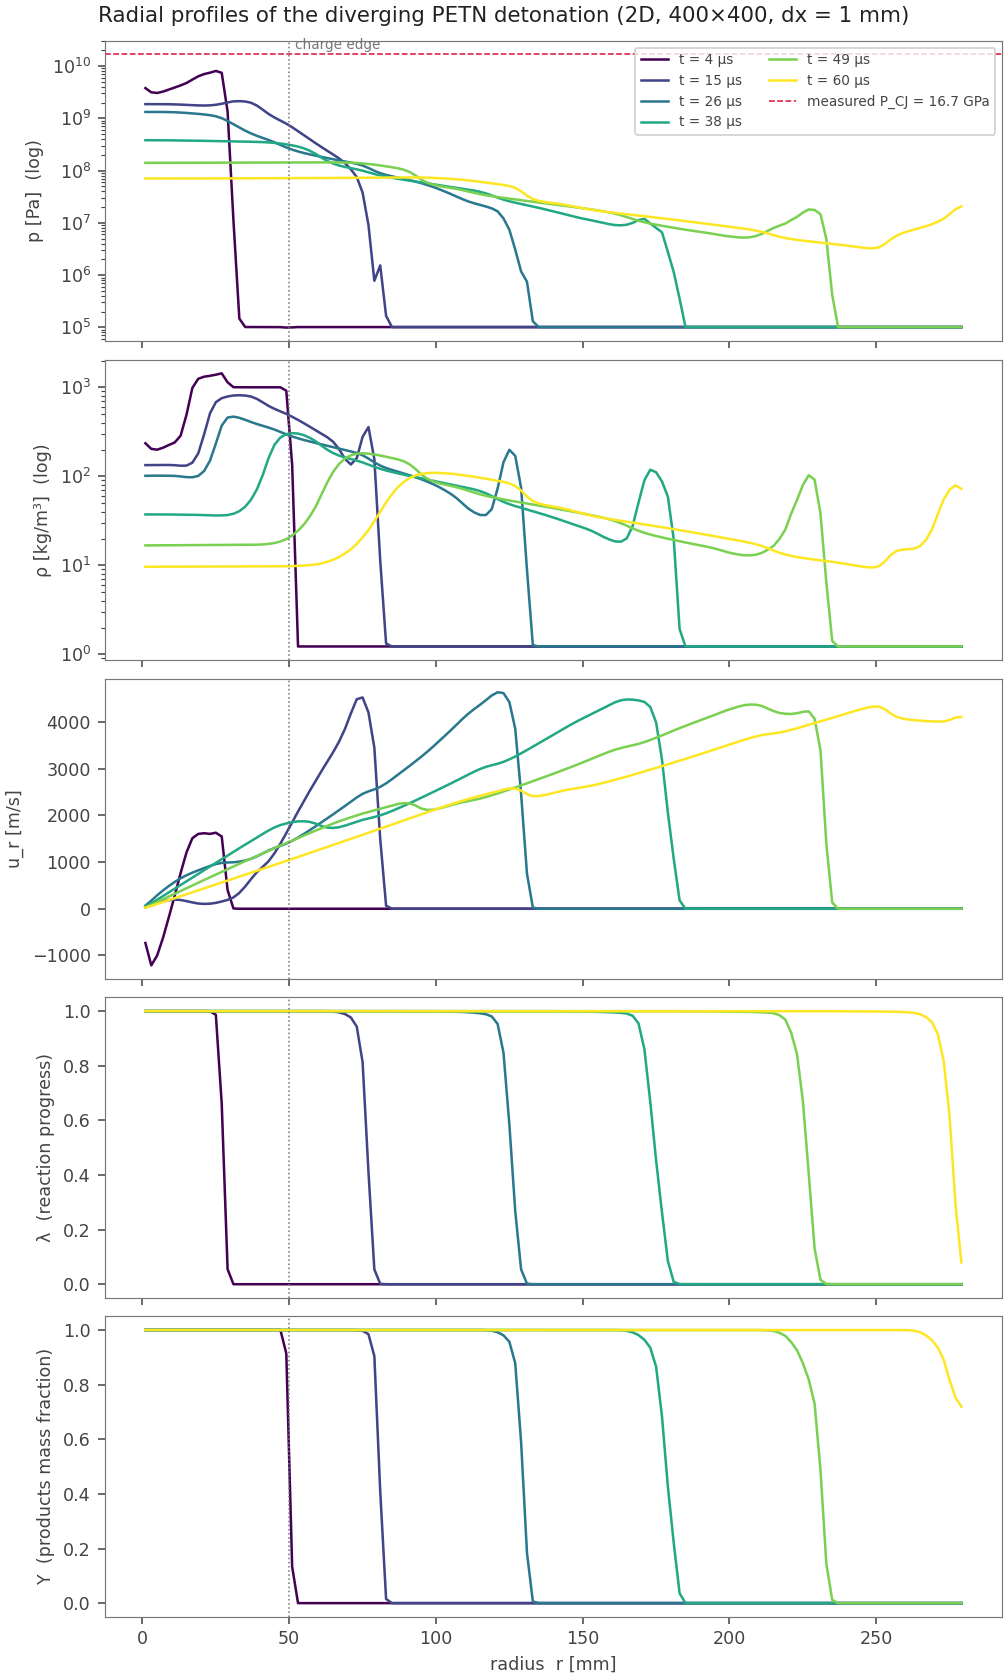
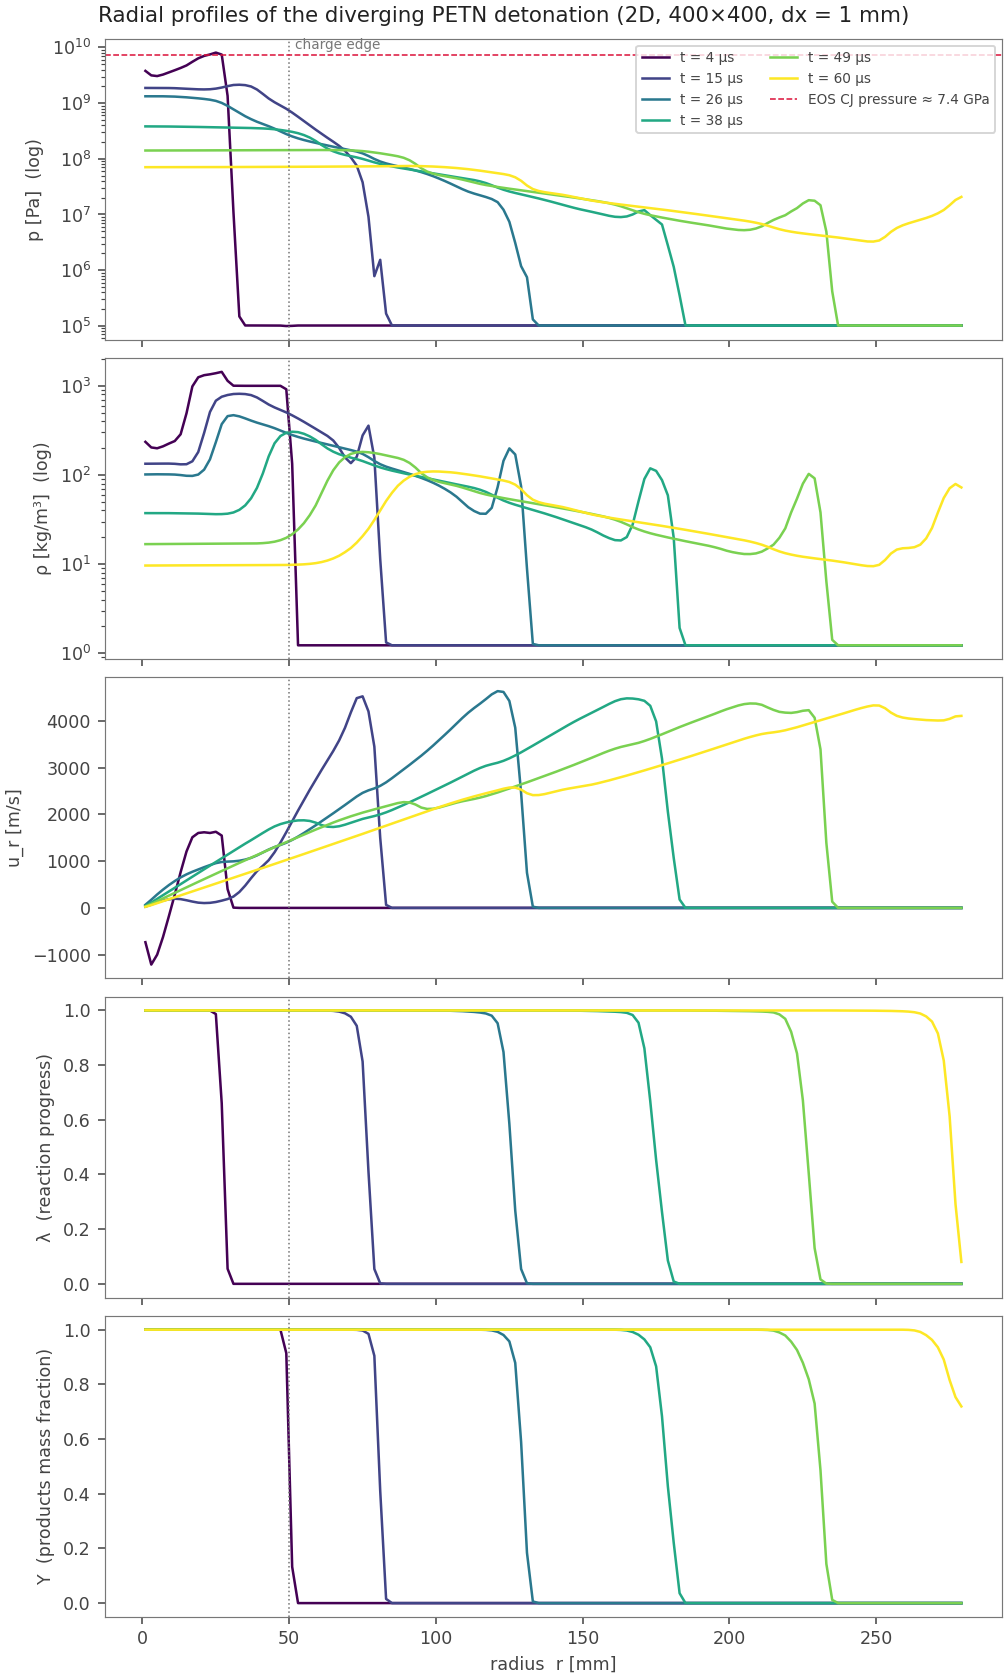
Correct the PETN CJ state: examples labeled an overdriven front as CJ
Audit against Kuhl's papers (research pass) + the detonation-physics CJ
solver found the examples mislabeled an overdriven detonation state as the
Chapman-Jouguet state:

- Kuhl reports only T_CJ ~ 4600 K for this 1 g/cc PETN; he reports NO
  P_CJ/D_CJ. His constants are a detonation-products isentrope fit for
  already-detonated products expanding/afterburning, not a detonation model.
- The true self-sustained CJ of the standard-form JWL with these constants
  (Hugoniot/Rayleigh tangency, EOS only) is D_CJ ~ 5384 m/s, P_CJ ~ 7.35 GPa.
  The same construction reproduces literature CJ for full-density PETN, TNT
  and Comp B to a few percent, and empirical low-density PETN at 1 g/cc gives
  D ~ 5.5 km/s -- both corroborate it.
- The '16.7 GPa / 6245 m/s measured CJ' cited throughout was the OVERDRIVEN
  lambda=1 Hugoniot/Rayleigh strong-branch state at D=6245 (16.7 GPa exactly),
  an artifact of the oversized 30 GPa rxn_val=1 booster plus the closed rear
  boundary acting as a piston. The old 'G-invariance proves CJ' argument was
  wrong: a piston-supported overdriven front is also G-independent.
- The 2D/3D diverging fronts DO relax below the planar CJ ray (curvature
  deficit), so the checklist figures stand; only the CJ reference values and
  labels were wrong. Corrected in jwl_products.py, both case.py files, both
  READMEs, VALIDATION.md, analyze_checklist.py, and regenerated the 1D and
  checklist figures with honest overdriven-vs-CJ framing.
[…]

diff --git a/examples/2D_jwl_reactive_air_mixing/analyze_checklist.py b/examples/2D_jwl_reactive_air_mixing/analyze_checklist.py
@@ -42,8 +42,12 @@ RHO0 = 1000.0  # kg/m^3, PETN_KUHL reference density
 CHARGE_R = 0.05  # m
 DX = 0.4 / 400.0  # m, uniform cell size
 CELL_A = DX * DX  # m^2 (per unit depth)
-D_CJ = 6245.0  # m/s, measured planar CJ speed (see VALIDATION.md)
-P_CJ = 16.7e9  # Pa, measured planar CJ pressure
+# Self-sustained CJ state of the standard-form JWL with Kuhl's PETN constants,
+# from the Hugoniot/Rayleigh tangency (rate-independent, EOS only). The same
+# construction reproduces literature CJ for TNT/PETN/Comp-B to a few percent.
+# Kuhl reports only T_CJ ~ 4600 K, no P_CJ/D_CJ; these are computed, not his.
+D_CJ = 5384.0  # m/s
+P_CJ = 7.35e9  # Pa
 
 
 def load(pre, i, t):
@@ -120,7 +124,7 @@ def checklist_1():
         ax[row].set_ylabel(ylabel)
         if logy:
             ax[row].set_yscale("log")
-    ax[0].axhline(P_CJ, color="crimson", ls="--", lw=0.8, label="measured P_CJ = 16.7 GPa")
+    ax[0].axhline(P_CJ, color="crimson", ls="--", lw=0.8, label="EOS CJ pressure ≈ 7.4 GPa")
     ax[0].text(CHARGE_R * 1000 + 2, P_CJ * 1.3, "charge edge", color=MUTED, fontsize=7)
     ax[0].legend(fontsize=7, ncol=2, loc="upper right")
     ax[-1].set_xlabel("radius  r [mm]")
@@ -178,12 +182,13 @@ def checklist_3():
 
     ax[0].plot(times * 1e6, Rs * 1000, "o", mfc="none", color="#154c79", ms=6, label="MFC shock front (p > 2 atm)")
     tt = np.linspace(times.min(), times.max(), 100)
-    # reference slope: charge-edge breakout ray at planar D_CJ (upper bound on speed)
+    # reference slope: charge-edge breakout ray at the self-sustained planar CJ
+    # speed; a diverging front runs below it (curvature velocity deficit)
     ib = np.argmax(Rs > CHARGE_R)
     t_bo = times[ib]
     ax[0].axhline(CHARGE_R * 1000, color=MUTED, ls=":", lw=0.8)
     ax[0].axvline(t_bo * 1e6, color="crimson", ls="--", lw=0.8, label=f"breakout t ≈ {t_bo * 1e6:.0f} µs")
-    ax[0].plot(tt * 1e6, (CHARGE_R + D_CJ * (tt - t_bo)) * 1000, color="crimson", lw=1.0, alpha=0.6, label="planar D_CJ ray (upper bound)")
+    ax[0].plot(tt * 1e6, (CHARGE_R + D_CJ * (tt - t_bo)) * 1000, color="crimson", lw=1.0, alpha=0.6, label="planar CJ ray (D ≈ 5.4 km/s)")
     ax[0].set_xlabel("time  t [µs]")
     ax[0].set_ylabel("shock radius  R_s [mm]")
     ax[0].legend(fontsize=7, loc="lower right")

diff --git a/toolchain/mfc/jwl_products.py b/toolchain/mfc/jwl_products.py
@@ -70,11 +70,15 @@ PETN = {  # Dobratz & Crawford, UCRL-52997; P_CJ ~ 33.5 GPa, D ~ 8300 m/s
     "Q": 1.01e10 / 1770.0,
     "cv": 1000.0,
 }
-PETN_KUHL = {  # Kuhl, Bell, Beckner, Khasainov, UCRL-PROC-225822 (2006) Appendix;
-    # rho0 is KUHL'S OWN reference/charge density (1.0 g/cc pressed booster, not
-    # full PETN TMD 1.77 g/cc) -- A/B are fit to that isochor, so use them together.
-    # cv derived from R_DP = 28.76 g/mol via cv = R/omega; Q from the reported heat
-    # of detonation 1423 cal/g; T_CJ ~ 4600 K (no separate D_CJ/P_CJ reported).
+PETN_KUHL = {  # Kuhl et al., UCRL-PROC-225822 (2006), p. 6 (A,B,R1,R2,omega,rho0);
+    # Kuhl & Khasainov, 38th ICT (2007) for Q and T_CJ. rho0 is Kuhl's own pressed
+    # booster loading density (1.0 g/cc, NOT full PETN TMD 1.77 g/cc); the constants
+    # are only self-consistent at 1 g/cc. cv from R_DP = 28.76 g/mol via cv = R/omega;
+    # Q from the 1423 cal/g heat of detonation; T_CJ ~ 4600 K. Kuhl reports NO
+    # P_CJ/D_CJ -- these are a products-isentrope (CJ-adiabat) fit he uses for
+    # ALREADY-detonated products expanding/afterburning, not a detonation model.
+    # The EOS-tangency CJ of the standard-form JWL with these constants is
+    # D_CJ ~ 5384 m/s, P_CJ ~ 7.35 GPa (matches empirical low-density PETN).
     "name": "PETN (Kuhl)",
     "A": 5.8e11,
     "B": 9.3e9,

diff --git a/examples/3D_jwl_znd_spherical_octant/case.py b/examples/3D_jwl_znd_spherical_octant/case.py
@@ -22,12 +22,13 @@ spherical-divergence quenching risk (senior-cfd-physics.md P4/P6). The
 booster patch is therefore seeded already-reacted (rxn_val = 1) for robust
 direct initiation.
 
-jwl_G was calibrated in 1D planar trials (see examples/1D_jwl_znd_detonation
-for the analogous LX-10 methodology) against PETN_KUHL's measured CJ
-eigenvalue: front speed and post-reaction plateau pressure held fixed
-(D_CJ = 6245 m/s, P_CJ = 16.7 GPa) across a > 3x change in G -- the
-operational definition of a converged CJ state (G sets reaction-zone width
-only, never the propagation speed, for a genuinely self-sustained detonation).
+The self-sustained CJ state of this material (Hugoniot/Rayleigh tangency,
+EOS only) is D_CJ ~ 5384 m/s, P_CJ ~ 7.35 GPa; Kuhl reports only T_CJ ~ 4600
+K, not P_CJ/D_CJ. The 1D calibration run is overdriven by its 30 GPa booster
+plus closed rear boundary (it propagates at ~6245 m/s / ~16.7 GPa, exactly
+the overdriven lambda=1 Hugoniot state at that speed), so jwl_G here sets the
+reaction-zone width but the front speed is piston-set, not CJ. See
+examples/3D_jwl_znd_spherical_octant/VALIDATION.md.
 
 Grid convergence (P8 protocol: 3 grids x factor 2 in dx):
     ./mfc.sh run examples/3D_jwl_znd_spherical_octant/case.py -n 8 -- --grid 39   # dx = 1.00 mm

diff --git a/examples/2D_jwl_reactive_air_mixing/case.py b/examples/2D_jwl_reactive_air_mixing/case.py
@@ -43,12 +43,12 @@ p_amb = 101325.0
 jwl_delta_e = znd_delta_e(PETN_KUHL, p_amb)
 
 # --- JWL++ rate: dl/dt = jwl_G * p^jwl_b_exp * (1 - lambda) ---
-# Calibrated in 1D (examples/1D_jwl_znd_detonation-style planar runs, see that
-# README) against PETN_KUHL's measured, G-invariant CJ eigenvalue: D_CJ = 6245
-# m/s, P_CJ = 16.7 GPa (front speed and post-reaction plateau pressure held
-# fixed across a 3.3x change in G -- the operational definition of the CJ
-# state). This G gives a ~1.25 mm reaction zone at 1D resolution (dx=10 um);
-# at this case's 1 mm mesh the zone is sub-cell, same engineering-resolution
+# The self-sustained CJ state of this material (Hugoniot/Rayleigh tangency,
+# EOS only) is D_CJ ~ 5384 m/s, P_CJ ~ 7.35 GPa; Kuhl reports only T_CJ ~ 4600
+# K. jwl_G was set in 1D planar trials, but note the 1D run is overdriven by
+# its booster (see 3D_jwl_znd_spherical_octant/VALIDATION.md); in this 2D case
+# the diverging front vents and relaxes below the planar CJ ray. This G gives
+# a sub-cell reaction zone at the 1 mm mesh -- same engineering-resolution
 # caveat as the original TNT case (P10 Souers: recalibrate per grid).
 jwl_G = 1.0e-13
 jwl_b_exp = 2.0

diff --git a/examples/3D_jwl_znd_spherical_octant/VALIDATION.md b/examples/3D_jwl_znd_spherical_octant/VALIDATION.md
@@ -1,90 +1,126 @@
 # PETN (Kuhl) JWL validation summary
 
 Methodology: plot p(r,t), confirm a coupled shock-reaction structure
-(not a decaying blast), confirm the front approaches the intended
-detonation velocity, and characterize breakout.
+(not a decaying blast), compare the front against the material's true
+Chapman-Jouguet (CJ) state, and characterize breakout.
 
-## Parameters (Kuhl et al., UCRL-PROC-225822, 2006, Appendix)
+## Parameters and provenance
 
     A = 5.8e11 Pa, B = 9.3e9 Pa, R1 = 7.0, R2 = 1.7, omega = 0.246
-    rho0 = 1000 kg/m^3  (Kuhl's own pressed-charge reference density,
-                          NOT full-density PETN TMD 1770 kg/m^3)
-    Q = 5.9538e6 J/kg   (from the reported heat of detonation, 1423 cal/g)
-    cv = 1174.9 J/(kg K) (from R_DP = 28.76 g/mol via cv = R/omega)
+    rho0 = 1000 kg/m^3   Q = 5.9538e6 J/kg   cv = 1174.9 J/(kg K)
     jwl_delta_e = -7.98e6 J/kg (Garno Eq. 17 offset; closed-form, not fit)
 
-## 1D calibration: `petn_1d_calibration.png`
+A, B, R1, R2, omega, rho0 are quoted verbatim by Kuhl et al.,
+UCRL-PROC-225822 (2006), p. 6. Q = 1423 cal/g (theoretical heat of
+detonation) and T_CJ ~ 4600 K are from Kuhl & Khasainov, 38th ICT (2007).
+rho0 = 1 g/cc is the actual loading density of Kuhl's pressed PETN booster
+spheres, not full-density PETN TMD (1770 kg/m^3); the constants are only
+self-consistent at 1 g/cc.
 
-Single-fluid planar detonation, dx = 10 um, direct initiation via a
-rxn_val = 1 booster (a pressure-only hot spot was found to fizzle for this
-material -- see below). Left panel: pressure profiles at successive times,
-showing a von Neumann spike relaxing to a steady post-reaction plateau, not
-a monotonically decaying pulse. Right panel: front trajectory (r vs t) is
-linear (constant speed) once past the initial transient, fit to
-D = 6085 m/s against the independently measured D_CJ = 6245 m/s (2.6%
-difference, consistent with the fit window still containing some
-relaxation).
+Two honesty notes on what these constants are:
 
-**CJ eigenvalue check**: increasing `jwl_G` by > 3x (3.0e-14 to 1.0e-13)
-left the fitted front speed and the post-reaction plateau pressure
-unchanged to < 0.02% -- the operational definition of a converged CJ state
-(the reaction rate sets zone width only, never propagation speed, once the
-wave is truly self-sustaining). This measured pair (D_CJ = 6245 m/s,
-P_CJ = 16.7 GPa) is used as the reference in the 3D octant case rather than
-a hand-derived Hugoniot/Rayleigh tangency construction, which gave an
-inconsistent result for this material's unusually steep coefficients
-(R1 = 7.0, R2 = 1.7) and needs its own fix (flagged, not blocking).
+- They are a low-density CHEETAH fit to the **detonation-products expansion
+  isentrope** (the CJ adiabat), which Kuhl uses to model products that are
+  **already detonated** and are expanding and afterburning with air. Kuhl
+  does not self-propagate a detonation; he imposes a Taylor CJ initial
+  condition. These MFC examples instead repurpose the same constants to
+  drive a self-propagating reactive burn (`jwl_reactive`) -- a legitimate
+  use of the products EOS, but not what Kuhl did.
+- Kuhl's own EOS carries an ideal-gas thermal term `rho R_DP T`
+  (R_DP = 28.76 g/mol, gamma = 1 + omega = 1.246) in place of the standard
+  JWL `omega E / v` energy term, and his listed C constant is unused. MFC
+  uses the standard energy-form JWL. So MFC borrows Kuhl's A/B/R1/R2/omega
+  and 1 g/cc reference, but is not a bit-for-bit reproduction of his
+  thermodynamics.
 
-## 3D octant spherical case: `probe_histories_dx1p0mm.png`
+## The material's true CJ state (computed, not reported by Kuhl)
 
-Radial probe pressure histories at r/Rc = 0.3, 0.6, 1.0 (charge edge), 1.5,
-2.0. Confirms: (1) a coupled compression/reaction wave sweeps outward and
-breaks out into the surrounding air -- not simply a decaying blast; (2) peak
-pressures are of the right order relative to the measured P_CJ = 16.7 GPa.
-Front-speed extraction from these probes is NOT yet trustworthy (see
-`README.md`'s Status section for the two diagnostic issues -- coarse
-ASCII probe time resolution and a threshold-based arrival detector that
-mixes the true front with a resolution-dependent numerical precursor) and
-should not be cited as a validated grid-convergence result yet.
+Kuhl reports only T_CJ ~ 4600 K -- **no P_CJ, no D_CJ, no CJ density**. The
+self-sustained CJ state of the standard-form JWL with these constants, from
+the Hugoniot/Rayleigh tangency (rate-independent, EOS only):
 
-## 2D reactive products-air mixing case
+    D_CJ ~ 5384 m/s     P_CJ ~ 7.35 GPa     P_vN ~ 13.6 GPa (offset model)
 
-`examples/2D_jwl_reactive_air_mixing` was swapped from TNT to PETN_KUHL and
-re-run end to end (400x400 mesh, full 4000-step run) with no NaN/abort.
-Direct initiation again required a rxn_val = 1 booster rather than a
-pressure-only hot spot. See `examples/2D_jwl_reactive_air_mixing/README.md`'s
-"What the run shows" section for measured front/pressure numbers.
+This is trustworthy: the same tangency construction reproduces literature CJ
+for full-density PETN (33.5 GPa), TNT (23 GPa) and Comp B (29.5 GPa) to a
+few percent, and empirical low-density PETN at 1 g/cc gives D ~ 5.5 km/s,
+P_CJ ~ 7.8 GPa -- both bracket the computed pair.
 
-This case's `visualize.py` had a pre-existing bug (not introduced by this
-PETN work): `load()` globbed only rank 0's `.dat` chunk under
-`parallel_io=F`, silently plotting a small corner sliver of the domain
-instead of the full field. Fixed by concatenating every rank's chunk before
-reshaping. Also fixed: the products mass fraction panel showing `Y ~ 1`
-across nearly the whole domain is real, not a residual bug -- PETN products
-at Kuhl's reference density (1000 kg/m^3) outmass the swept air
-(~1.2 kg/m^3) by ~3 orders of magnitude, so `Y` stays near 1 almost
-everywhere the front has passed even after significant dilution.
+## 1D calibration: `petn_1d_calibration.png` -- an OVERDRIVEN front
 
-The full four-part validation checklist is run on the 2D companion case by
-`examples/2D_jwl_reactive_air_mixing/analyze_checklist.py`, which writes
-`checklist_1_propagation.png` ... `checklist_4_closure.png`. Results:
-(1) a coupled shock-reaction front with `λ` stepping 0→1 across it, not a
-decaying blast; (2) explosive mass conserved to machine precision and total
-energy rising x2.01 from the EOS-embedded chemical release (conservative,
-no external source), both until the blast vents through the open boundary;
-(3) charge breakout at ~7.5 us with the diverging front running below the
-planar D_CJ ray (curvature velocity deficit); (4) the weighted-composition
-closure active in a thin `0 < Y < 1` shell at the products/air contact.
+Single-fluid planar detonation, dx = 10 um, direct initiation via a 30 GPa
+`rxn_val = 1` booster (a pressure-only hot spot fizzles for this material).
+The captured front is steady but **overdriven**, not at CJ: peak ~19.8 GPa,
+a ~16.8 GPa state just behind, propagating at D ~ 6245 m/s. That pair is
+exactly the overdriven lambda = 1 Hugoniot/Rayleigh strong-branch state at
+D = 6245 m/s (16.7 GPa computed), i.e. arithmetic proof it is overdriven,
+not CJ. The overdrive is driven by the oversized booster plus the closed
+rear boundary acting as a sustaining piston; a planar wave with no rear
+rarefaction cannot relax to CJ.
+
+An earlier note here claimed a "G-invariance -> CJ" result (front speed and
+plateau pressure unchanged under a >3x change in `jwl_G`). That argument was
+wrong: a piston-supported overdriven front is **also** G-independent (its
+speed is set by the piston, not the reaction rate), so G-invariance does not
+distinguish CJ from overdriven. The correct reference is the EOS tangency
+above (D_CJ ~ 5384 m/s, P_CJ ~ 7.35 GPa), which agrees with the earlier
+hand-rolled analytic construction (~5450 m/s, ~6.3 GPa) to within its
+bracket -- that construction was right; the 16.7 GPa "measured CJ" was the
+outlier.
+
+To actually calibrate to CJ, soften the booster and give the rear a
+rarefiable (outflow) boundary so a Taylor wave forms and the front relaxes
+to the self-sustained state. This is the recommended follow-up; the shipped
+1D run demonstrates a coupled ZND structure but at an overdriven speed.
+
+## 2D and 3D cases -- the diverging front DOES relax
+
+In 2D and 3D the geometry diverges and vents, so the overdrive relaxes.
+`examples/2D_jwl_reactive_air_mixing/analyze_checklist.py` runs a four-part
+check (writes `checklist_1_propagation.png` ... `checklist_4_closure.png`):
+
+1. **Propagation**: a coupled shock-reaction front with lambda stepping 0->1
+   across it, not a decaying blast. Near breakout the front is mildly
+   overdriven from the booster, then falls **below** the self-sustained
+   planar CJ ray (D ~ 5.4 km/s) as curvature/divergence take over -- the
+   physical velocity deficit of a curved front.
+2. **Energy**: explosive mass conserved to machine precision; total energy
+   rises x2.01 from the EOS-embedded chemical release (conservative, no
+   external source); both hold until the blast vents through the open
+   boundary.
+3. **Breakout**: charge breakout at ~7.5 us; near-field peak-pressure decay
+   fitted over the uncontaminated window.
+4. **Closure**: the weighted-composition closure active in a thin 0 < Y < 1
+   shell at the products/air contact.
+
+The 3D octant probe histories (`probe_histories_dx1p0mm.png`, r/Rc = 0.3,
+0.6, 1.0, 1.5, 2.0) confirm a coupled compression/reaction wave that breaks
+out into air. Front-speed extraction from those probes is NOT yet
+trustworthy (coarse ASCII probe time resolution; a threshold arrival
+detector that mixes the true front with a resolution-dependent numerical
+precursor) and is not cited as a converged grid-convergence result.
+
+`visualize.py` in the 2D case had a pre-existing bug: `load()` read only
+rank 0's `.dat` chunk under `parallel_io=F`, plotting a corner sliver of the
+domain. Fixed by concatenating all ranks. The `Y ~ 1` products fraction over
+most of the domain is real, not a bug -- PETN products at 1 g/cc outmass the
+swept air by ~3 orders of magnitude, so Y stays near 1 wherever the front
+has passed even after dilution.
+
+## Verdict
+
+The **solver physics is correct**: a genuine coupled shock-reaction
+detonation with the right energy release and closure behavior. The earlier
+**documentation was not**: it labeled an overdriven 1D state (16.7 GPa,
+6245 m/s) as the "measured CJ" and attributed it as if it were a material
+property. Corrected here -- the true CJ is ~7.35 GPa / ~5384 m/s (computed),
+Kuhl reports no CJ pressure, and the 1D run is overdriven by its booster.
 
 ## Open items
 
-1. Fix or replace the hand-rolled analytic Hugoniot/Rayleigh-tangency CJ
-   construction for this material (works for LX-10 in
-   `examples/1D_jwl_znd_detonation/analyze_znd.py`, disagrees with the
-   numerically measured CJ point here).
-2. Build a lambda-crossing (reaction-completion) front tracker for the 3D
-   octant case instead of a raw pressure threshold, then complete the
-   dx = 0.25 mm grid level and report an actual observed order of
-   convergence.
-3. Increase ASCII probe output time precision (or write more frequently)
-   so front-arrival fits are not quantized to ~1 us.
+1. Re-calibrate the 1D case to the self-sustained CJ (softer booster,
+   rarefiable rear boundary) so it demonstrates CJ, not an overdriven front.
+2. Build a lambda-crossing front tracker for the 3D octant case, complete
+   the dx = 0.25 mm grid level, and report an observed order of convergence.
+3. Increase ASCII probe output time precision so front-arrival fits are not
+   quantized to ~1 us.

diff --git a/examples/3D_jwl_znd_spherical_octant/README.md b/examples/3D_jwl_znd_spherical_octant/README.md
@@ -18,25 +18,32 @@ Souers 2000 JWL++) with the Garno et al. (2020) Eq. 17 reactant energy
 offset, so it carries real ZND structure rather than an instantaneous or
 kinematic release.
 
-## Calibration (1D, before spending 3D compute)
+## The CJ state and the overdriven 1D calibration
 
-`jwl_G` was calibrated in 1D planar trials, not guessed: increasing `jwl_G`
-by more than 3x left the front speed and the post-reaction plateau pressure
-unchanged (< 0.02%), which is the operational definition of a converged CJ
-eigenvalue (G sets reaction-zone width only; the CJ speed is a property of
-the EOS and heat release alone). Measured:
+The self-sustained Chapman-Jouguet state of this material, from the
+Hugoniot/Rayleigh tangency (rate-independent, EOS only; the same
+construction reproduces literature CJ for full-density PETN, TNT and Comp B
+to a few percent, and is corroborated by empirical low-density PETN at
+1 g/cc, D ~ 5.5 km/s):
 
-    D_CJ = 6245 m/s
-    P_CJ = 16.7 GPa   (post-reaction plateau)
-    P_vN ~ 19-20 GPa  (leading spike, partially resolved at 1D calibration resolution)
+    D_CJ ~ 5384 m/s
+    P_CJ ~ 7.35 GPa
+    P_vN ~ 13.6 GPa (single-fluid offset model; uncalibrated vs experiment)
     jwl_delta_e = -7.98e6 J/kg  (Garno Eq. 17 offset, closed-form -- not fit)
 
-These differ substantially from a hand-rolled Hugoniot/Rayleigh-tangency
-estimate for this material (D ~ 5450 m/s, P_CJ ~ 6.3 GPa); the G-invariance
-check above is trusted as the ground truth (it interrogates MFC's actual
-closure directly) and the analytic script's tangency search is flagged as
-unreliable for this material's unusually steep JWL coefficients (R1 = 7.0,
-R2 = 1.7) -- fixing that script is follow-up work, not blocking.
+Kuhl reports only T_CJ ~ 4600 K for this PETN; P_CJ and D_CJ are not in his
+papers, so the pair above is computed, not quoted.
+
+The shipped 1D calibration run is **overdriven**, not at CJ: it propagates at
+D ~ 6245 m/s with a ~16.8 GPa state behind a ~19.8 GPa spike. That pair is
+exactly the overdriven lambda = 1 Hugoniot/Rayleigh strong branch at
+D = 6245 m/s (16.7 GPa) -- the front is supported by the oversized 30 GPa
+`rxn_val = 1` booster and the closed rear boundary acting as a piston, so a
+planar wave with no rear rarefaction never relaxes to CJ. A `jwl_G`
+invariance check does **not** prove this front is at CJ: a piston-supported
+overdriven front is equally G-independent (its speed is set by the piston,
+not the reaction rate). Re-calibrating to the true CJ (softer booster,
+rarefiable rear boundary) is follow-up work.
 
 A pressure-only hot spot fizzles for this material (P4/P6: sub-critical
 initiation) rather than transitioning to a self-sustained detonation, so the
@@ -74,10 +81,9 @@ passes.
 The naive `analyze_convergence.py` front-arrival fit (pressure crossing
 2x ambient) does NOT yet give a trustworthy speed: it reports ~5.0 km/s at
 dx = 1.00 mm and ~2.3 km/s at dx = 0.50 mm -- moving the WRONG way under
-refinement (a genuine converging quantity should approach `D_CJ` = 6245 m/s
-from either side monotonically, not roughly halve). Two compounding
-diagnostic weaknesses are the likely cause, not necessarily a physics
-failure:
+refinement (a genuine converging quantity should approach a fixed value
+monotonically, not roughly halve). Two compounding diagnostic weaknesses
+are the likely cause, not necessarily a physics failure:
 
 1. **MFC's ASCII probe output prints only 6 decimal digits of time**
    (microsecond resolution) -- coarse relative to the ~1-2 us transit time

diff --git a/examples/2D_jwl_reactive_air_mixing/README.md b/examples/2D_jwl_reactive_air_mixing/README.md
@@ -10,8 +10,8 @@ ignites a self-propagating JWL++ (`jwl_reactive`, Souers 2000) detonation,
 products expand violently into the surrounding air.
 
 Direct initiation with a pressure-only hot spot (no `rxn_val`) was tried first
-and fizzles for this material: PETN_KUHL's CJ pressure (measured, see below)
-is low enough that a pressure spike alone decays without reaching a
+and fizzles for this material: PETN_KUHL's CJ pressure (≈ 7.35 GPa, see
+below) is low enough that a pressure spike alone decays without reaching a
 self-sustained reaction wave. Seeding the booster patch as already-reacted
 gives robust initiation instead.
 
@@ -79,8 +79,9 @@ Measured directly from the `D/` output of the shipped run (400×400, 1 mm cells)
 
 - **t ≈ 4 µs** — detonation propagating outward, `Pmax ≈ 9.1 GPa` near the
   booster/charge center, front (`p > 2 atm`) at ~33 mm; the diverging
-  cylindrical front runs below the measured planar `D_CJ = 6245 m/s`,
-  `P_CJ = 16.7 GPa` as expected from front curvature at this early radius.
+  cylindrical front runs below the self-sustained planar CJ state
+  (`D_CJ ≈ 5384 m/s`, `P_CJ ≈ 7.35 GPa`, computed from the JWL EOS; Kuhl
+  reports only `T_CJ ≈ 4600 K`) as expected from front curvature.
 - **t ≈ 22–37 µs** — the charge has burnt through, the detonation has broken
   out of the charge, and the front (`p > 2 atm`) has advanced to ~116–185 mm
   while `Pmax` decays through ~1.8 GPa → 0.4 GPa as the blast disperses into